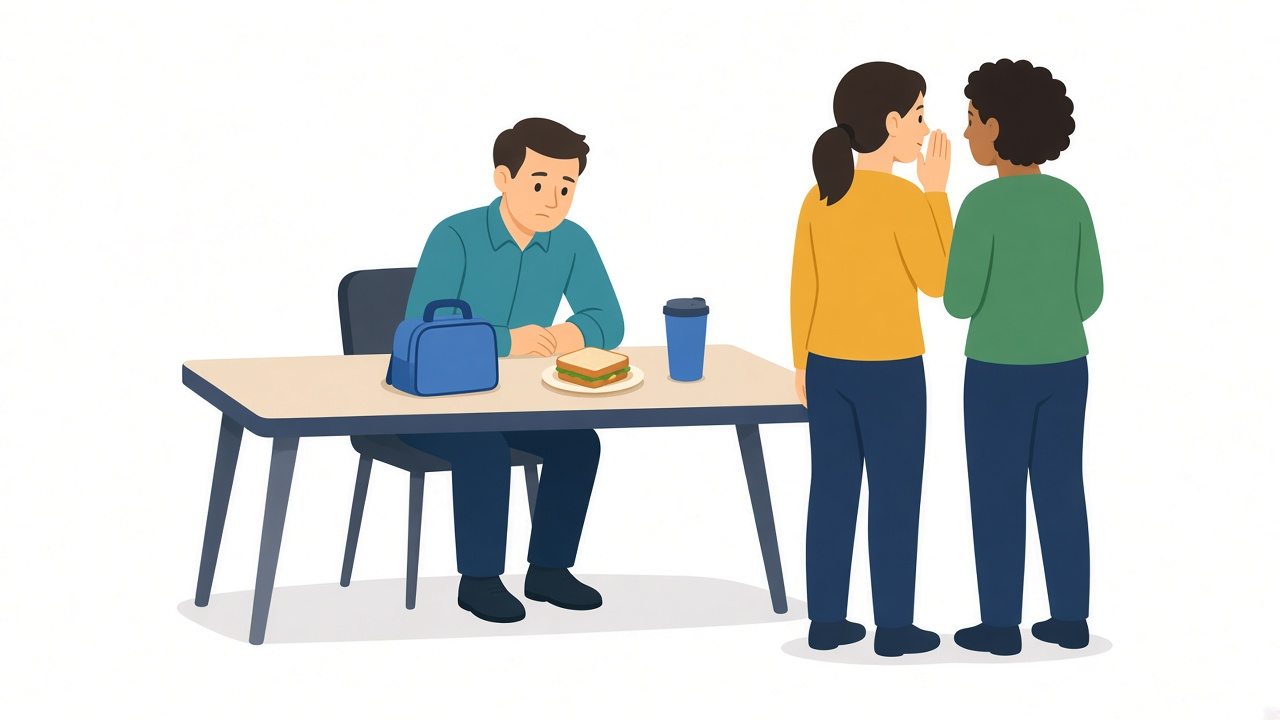
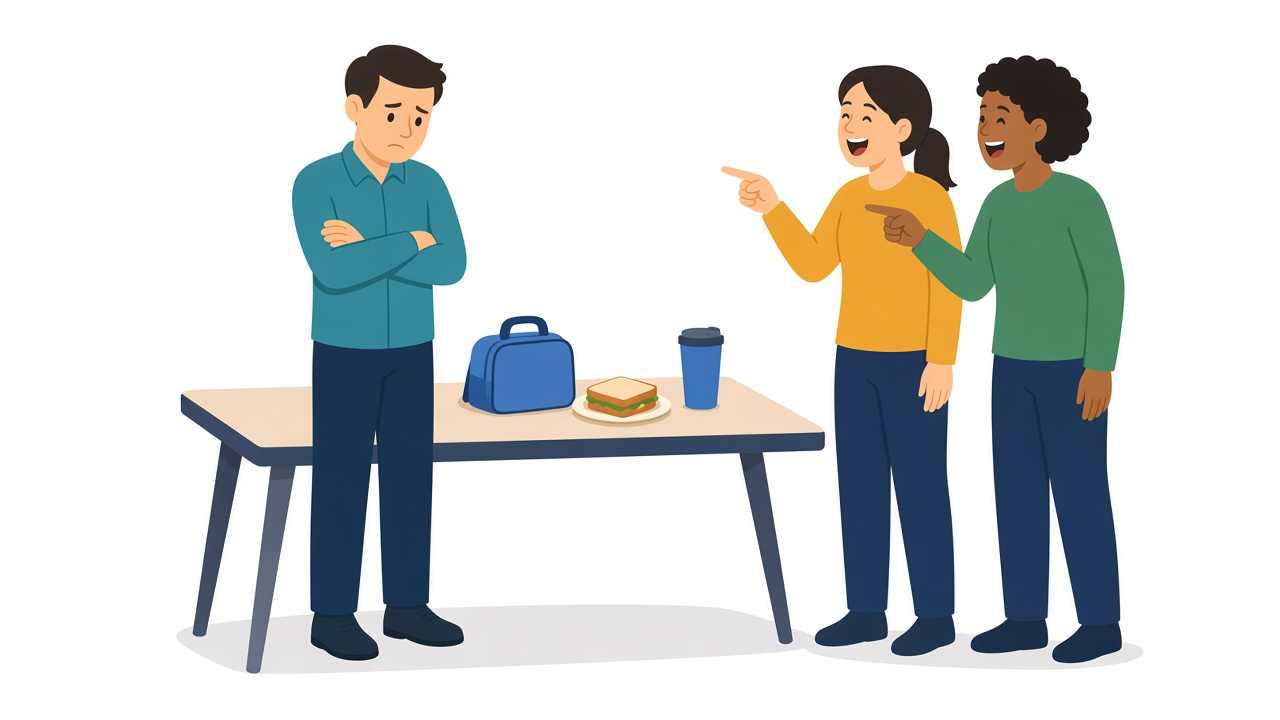
Teach roof and gutter work to Australian fall-prevention practice.
Expand the ladder and heights lessons, match the quiz, and show a worker tied on a slate roof.

diff --git a/service_link_api-main/src/training/training.service.ts b/service_link_api-main/src/training/training.service.ts
@@ -1713,11 +1713,11 @@ export class TrainingService {
           },
           {
             title: 'Ladders',
-            body: 'Use an industrial ladder that is long enough. Set it on firm, level ground at about a one-in-four angle. Secure the top. Keep three points of contact and do not overreach. Do not stand on the top rungs. A second person should foot the ladder where the ground is soft or the job is exposed. Inspect the ladder before use and do not use a bent or cracked one.',
+            body: 'A ladder is only for short, light work. Use an industrial ladder at a four-to-one angle. Keep three points of contact at all times: two hands and one foot, or two feet and one hand. Face the ladder, do not stand on the top rungs, and do not climb with tools in both hands.',
           },
           {
             title: 'Working at heights',
-            body: 'Stay on the ladder or an approved platform. Do not walk on fragile roofs, skylights, or polycarbonate sheets. If the job needs a harness or edge protection, do not start until that is in place and you have been trained to use it. Keep tools in a belt or bucket so you are not carrying them in one hand while you climb.',
+            body: 'A fall from a roof or gutter can kill you. The person conducting the business must manage that risk. Do the job from the ground where you can. If you must go up, use edge protection, a scaffold, or an elevated work platform before you rely on a ladder. Do not walk on skylights, polycarbonate, rusted metal, or asbestos cement. A harness needs a proper anchor, training, and a rescue plan before you clip on. Keep people below out of the drop zone. If you cannot keep a stable stance, come down.',
           },
           {
             title: 'Weather and outdoor work',
@@ -1746,29 +1746,59 @@ export class TrainingService {
         ],
         questions: [
           {
-            prompt: 'When is it acceptable to stand on the top rung of a ladder?',
+            prompt: 'What does the three-point rule require while you climb or work from a ladder?',
             options: [
-              { key: 'a', text: 'If someone is footing it' },
-              { key: 'b', text: 'Never' },
-              { key: 'c', text: 'Only for a few seconds' },
-              { key: 'd', text: 'If the gutter is just out of reach' },
+              { key: 'a', text: 'One hand on the ladder is enough if your feet feel steady' },
+              { key: 'b', text: 'Two hands and one foot, or two feet and one hand, on the ladder at the same time' },
+              { key: 'c', text: 'Both hands free so you can hold the tool' },
+              { key: 'd', text: 'Three people watching from the ground' },
             ],
             correctKey: 'b',
           },
           {
-            prompt: 'A roof looks fragile or has skylights. What should you do?',
+            prompt: 'When may you stand on the top three rungs of a straight or extension ladder?',
             options: [
-              { key: 'a', text: 'Walk around the skylights carefully' },
-              { key: 'b', text: 'Do not walk on it; use the approved method or stop' },
-              { key: 'c', text: 'Go up only if you are light' },
-              { key: 'd', text: 'Lay a towel over the sheet and walk on that' },
+              { key: 'a', text: 'If someone is footing the ladder' },
+              { key: 'b', text: 'Never' },
+              { key: 'c', text: 'For a few seconds to reach the gutter' },
+              { key: 'd', text: 'If you keep one hand on the gutter' },
+            ],
+            correctKey: 'b',
+          },
+          {
+            prompt: 'The gutter job needs both hands. What should you do?',
+            options: [
+              { key: 'a', text: 'Let go of the ladder and work quickly' },
+              { key: 'b', text: 'Come down. A ladder is the wrong method when the job needs both hands' },
+              { key: 'c', text: 'Hook one arm around the stile and use both hands' },
+              { key: 'd', text: 'Stand on the top rung so you are closer' },
+            ],
+            correctKey: 'b',
+          },
+          {
+            prompt: 'A roof has skylights or asbestos cement sheets. What should you do?',
+            options: [
+              { key: 'a', text: 'Walk around them carefully' },
+              { key: 'b', text: 'Do not walk on them. Stay on the ladder or a surface you have been told will carry you' },
+              { key: 'c', text: 'Cover a skylight and step across it' },
+              { key: 'd', text: 'Go up only if you are light' },
+            ],
+            correctKey: 'b',
+          },
+          {
+            prompt: 'A harness is on site but there is no rescue plan. What should you do?',
+            options: [
+              { key: 'a', text: 'Clip on. The harness is enough' },
+              { key: 'b', text: 'Do not start. A harness without a rescue plan is not a safe system of work' },
+              { key: 'c', text: 'Tie the lanyard to the gutter' },
+              { key: 'd', text: 'Ask someone in the street to watch' },
             ],
             correctKey: 'b',
           },
           {
             prompt: 'Overhead power lines are close to the gutter. You should:',
             options: [
-              { key: 'a', text: 'Use a metal pole if you are careful' },
+              { key: 'a', text: 'Use a metal ladder if you are careful' },
               { key: 'b', text: 'Stop and keep clear until your supervisor confirms it is safe' },
               { key: 'c', text: 'Work only in the morning' },
               { key: 'd', text: 'Touch the line with a wooden stick to test it' },
@@ -1779,19 +1809,19 @@ export class TrainingService {
             prompt: 'Rain starts while you are on a ladder. What should you do?',
             options: [
               { key: 'a', text: 'Finish the gutter quickly' },
-              { key: 'b', text: 'Come down; wet roofs and ladders are slippery' },
+              { key: 'b', text: 'Come down. A wet ladder is slippery and you may not keep three points of contact' },
               { key: 'c', text: 'Take your boots off for better feel' },
               { key: 'd', text: 'Keep going if the wind is light' },
             ],
             correctKey: 'b',
           },
           {
-            prompt: 'How should wet gutter debris be brought down?',
+            prompt: 'How should you take tools up a ladder?',
             options: [
-              { key: 'a', text: 'Thrown to the ground near the path' },
-              { key: 'b', text: 'In small loads, lowered so people below are clear' },
-              { key: 'c', text: 'Carried in both hands while you climb' },
-              { key: 'd', text: 'Left on the roof for the rain to wash off' },
+              { key: 'a', text: 'One tool in each hand' },
+              { key: 'b', text: 'In a belt, or hoisted on a line after you have three points of contact' },
+              { key: 'c', text: 'Thrown up to the gutter' },
+              { key: 'd', text: 'In one hand, with the other hand off the ladder' },
             ],
             correctKey: 'b',
           },
@@ -1840,6 +1870,44 @@ export class TrainingService {
       );
       this.logger.log(`training: added module ${mod.code}`);
     }
+    await this.syncRoofQuiz(catalogue);
+  }
+
+  /** Keep the Roof and Gutter quiz aligned with the catalogue after content changes. */
+  private async syncRoofQuiz(
+    catalogue: { code: string; questions: { prompt: string; options: { key: string; text: string }[]; correctKey: string }[] }[],
+  ): Promise<void> {
+    const spec = catalogue.find((m) => m.code === 'ROOF');
+    if (!spec?.questions?.length) return;
+    const existing = await this.modulesRepo.findOne({ where: { code: 'ROOF' } });
+    if (!existing) return;
+    const rows = await this.questionsRepo.find({
+      where: { moduleId: existing.id },
+      order: { sortOrder: 'ASC', id: 'ASC' },
+    });
+    for (let i = 0; i < spec.questions.length; i++) {
+      const q = spec.questions[i];
+      const payload = {
+        moduleId: existing.id,
+        type: 'MCQ',
+        prompt: q.prompt,
+        options: q.options,
+        correctKey: q.correctKey,
+        answerReviewed: true,
+        sortOrder: i + 1,
+      };
+      const row = rows[i];
+      if (row) {
+        Object.assign(row, payload);
+        await this.questionsRepo.save(row);
+      } else {
+        await this.questionsRepo.save(this.questionsRepo.create(payload));
+      }
+    }
+    const extras = rows.slice(spec.questions.length);
+    if (extras.length) {
+      await this.questionsRepo.delete(extras.map((r) => r.id));
+    }
   }
 
   async applyContentRevisions(): Promise<void> {
@@ -1860,6 +1928,7 @@ export class TrainingService {
       sortOrder?: number;
       body?: string;
       imageUrl?: string;
+      forceImage?: boolean;
     }) => {
       const mod = await this.modulesRepo.findOne({ where: { code: topic.code } });
       if (!mod) return;
@@ -1879,7 +1948,7 @@ export class TrainingService {
         row.body = topic.body;
         changed = true;
       }
-      if (topic.imageUrl && !row.imageUrl) {
+      if (topic.imageUrl && (topic.forceImage || !row.imageUrl) && row.imageUrl !== topic.imageUrl) {
         row.imageUrl = topic.imageUrl;
         changed = true;
       }
